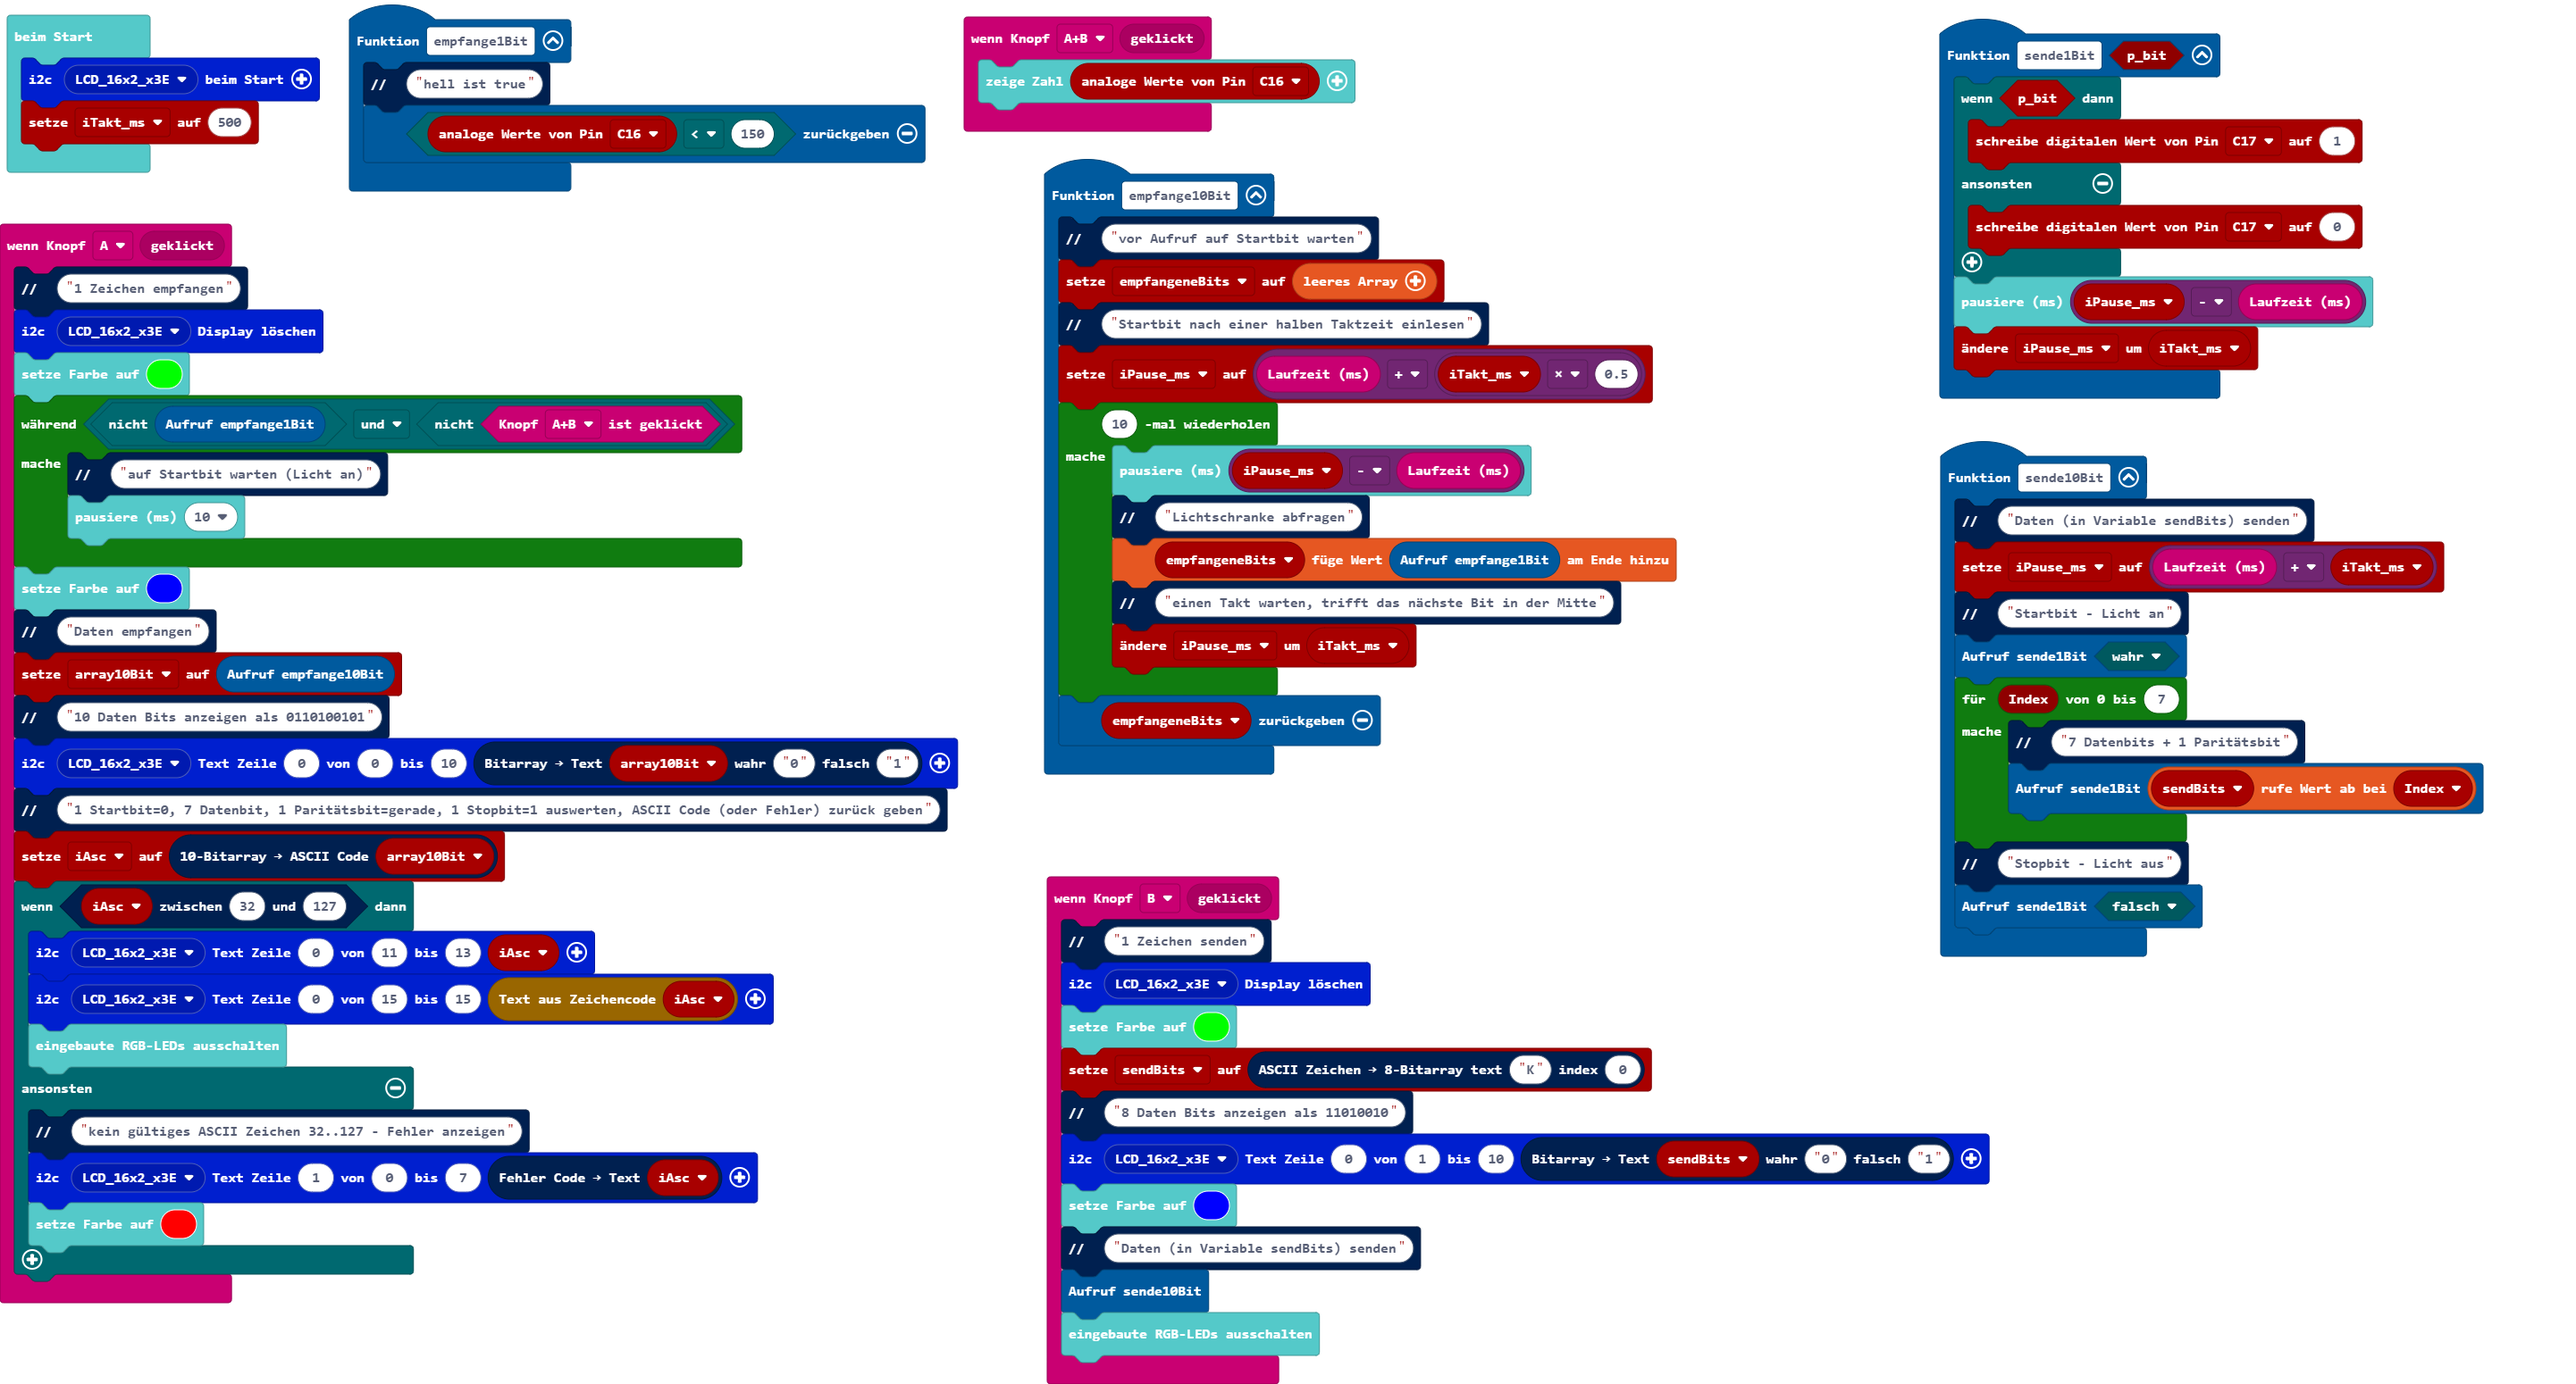
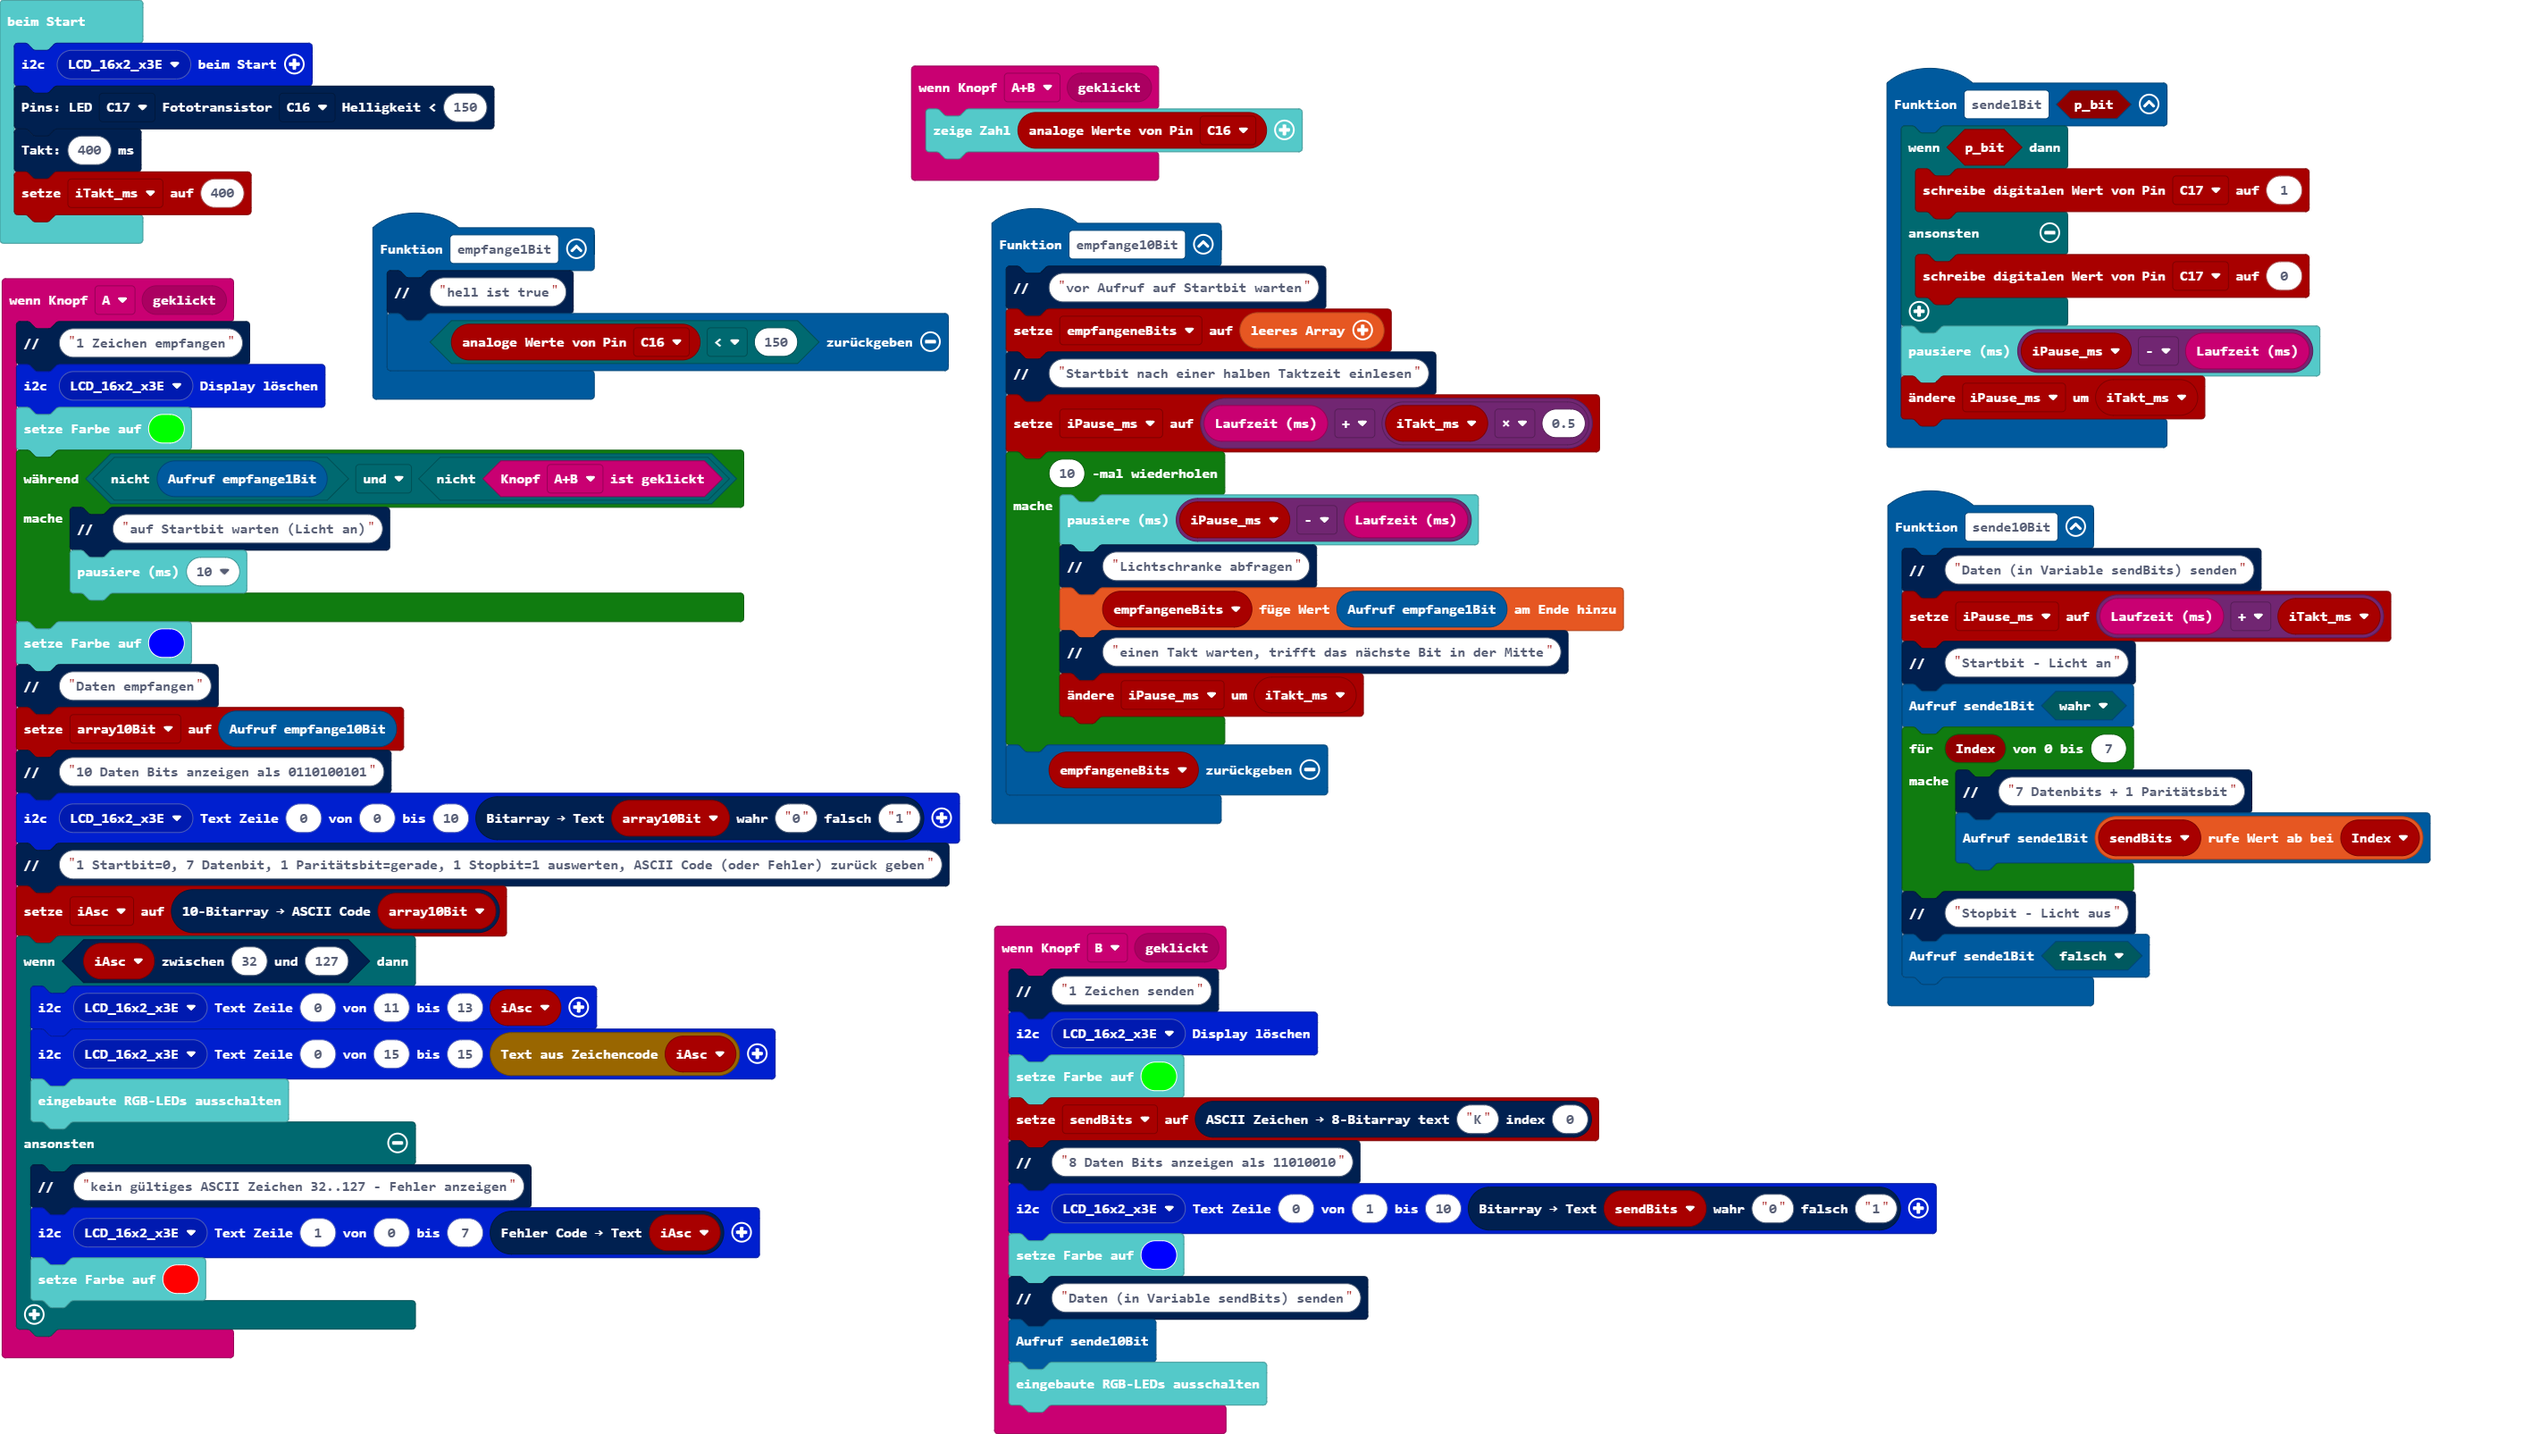
Aktualisiere pxt.json, main.blocks, main.ts, rs232.ts

diff --git a/rs232.ts b/rs232.ts
@@ -7,6 +7,27 @@ namespace rs232
     https://calliope-net.github.io/rs232-e41/rs232.png
 */ {
 
+    let n_pinLED: DigitalPin = DigitalPin.C17
+    let n_pinFototransistor: AnalogPin = AnalogPin.C16
+    let n_valueFototransistor: number = 150
+    let n_takt_ms: number = 400
+
+    //% group="Pins und Takt (Millisekunden)"
+    //% block="Pins: LED %pinLED Fototransistor %pinFototransistor Helligkeit < %valueFototransistor" weight=5
+    //% pinLED.defl=DigitalPin.C17 pinFototransistor.defl=AnalogPin.C16 valueFototransistor.defl=150
+    export function setPins(pinLED: DigitalPin, pinFototransistor: AnalogPin, valueFototransistor: number) {
+        n_pinLED = pinLED
+        n_pinFototransistor = pinFototransistor
+        n_valueFototransistor = valueFototransistor
+    }
+
+    //% group="Pins und Takt (Millisekunden)"
+    //% block="Takt: %pTakt_ms ms" weight=4
+    //% pTakt_ms.defl=400
+    export function setTakt(pTakt_ms: number) {
+        n_takt_ms = pTakt_ms
+    }
+
 
 
     // ========== group="Senden: 7 Datenbit, 1 Paritätsbit"

diff --git a/main.ts b/main.ts
@@ -84,4 +84,6 @@ let iPause_ms = 0
 let empfangeneBits: boolean[] = []
 let iTakt_ms = 0
 lcd16x2rgb.initLCD(lcd16x2rgb.lcd16x2_eADDR(lcd16x2rgb.eADDR_LCD.LCD_16x2_x3E))
-iTakt_ms = 500
+rs232.setPins(DigitalPin.C17, AnalogPin.C16, 150)
+rs232.setTakt(400)
+iTakt_ms = 400
